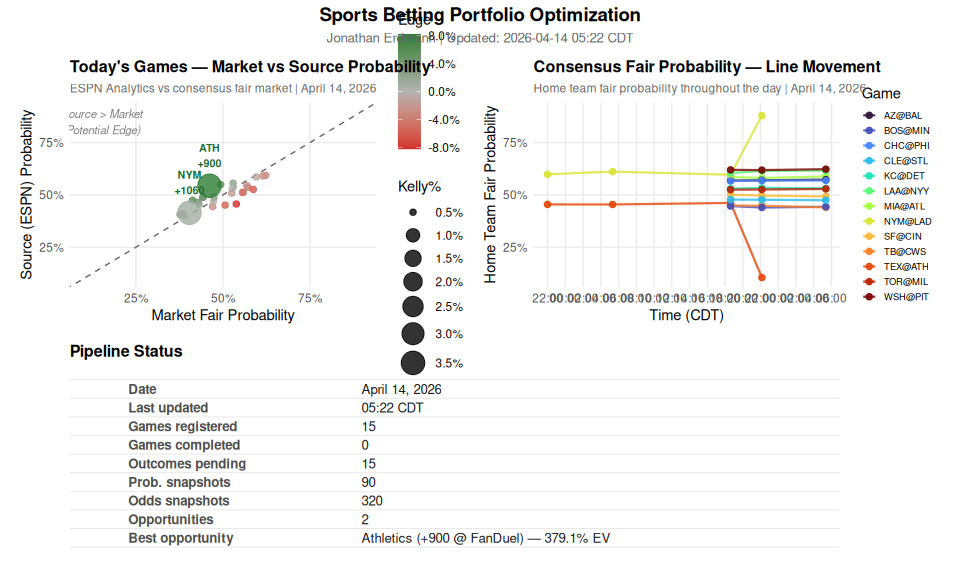
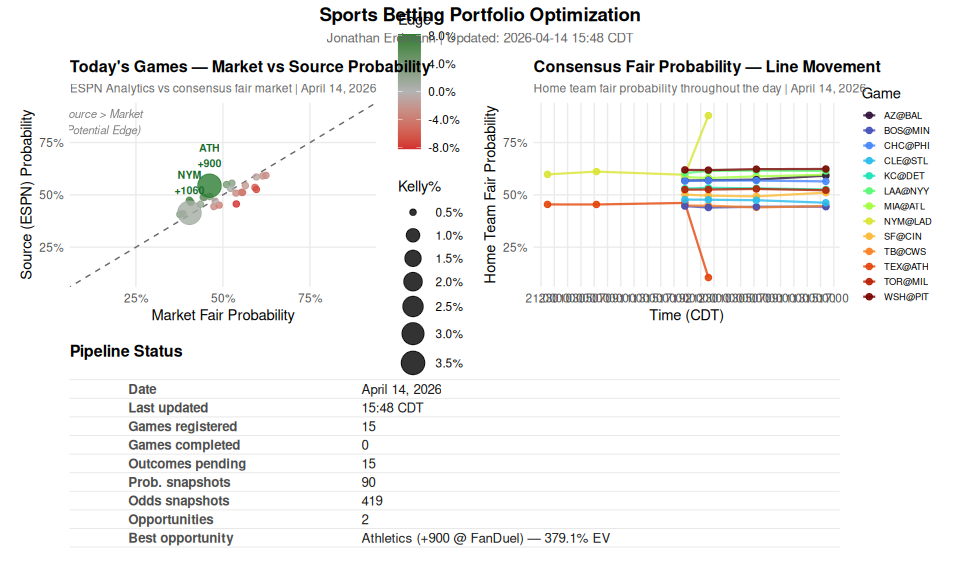
Update dashboard: 2026-04-14 15:48

diff --git a/projects/portfolio-optimization/dashboard.md b/projects/portfolio-optimization/dashboard.md
@@ -6,7 +6,7 @@ permalink: /projects/portfolio-optimization/dashboard/
 
 ## Daily Pipeline Dashboard
 
-**Last updated:** April 14, 2026 05:22 CDT
+**Last updated:** April 14, 2026 15:48 CDT
 
 ---
 
